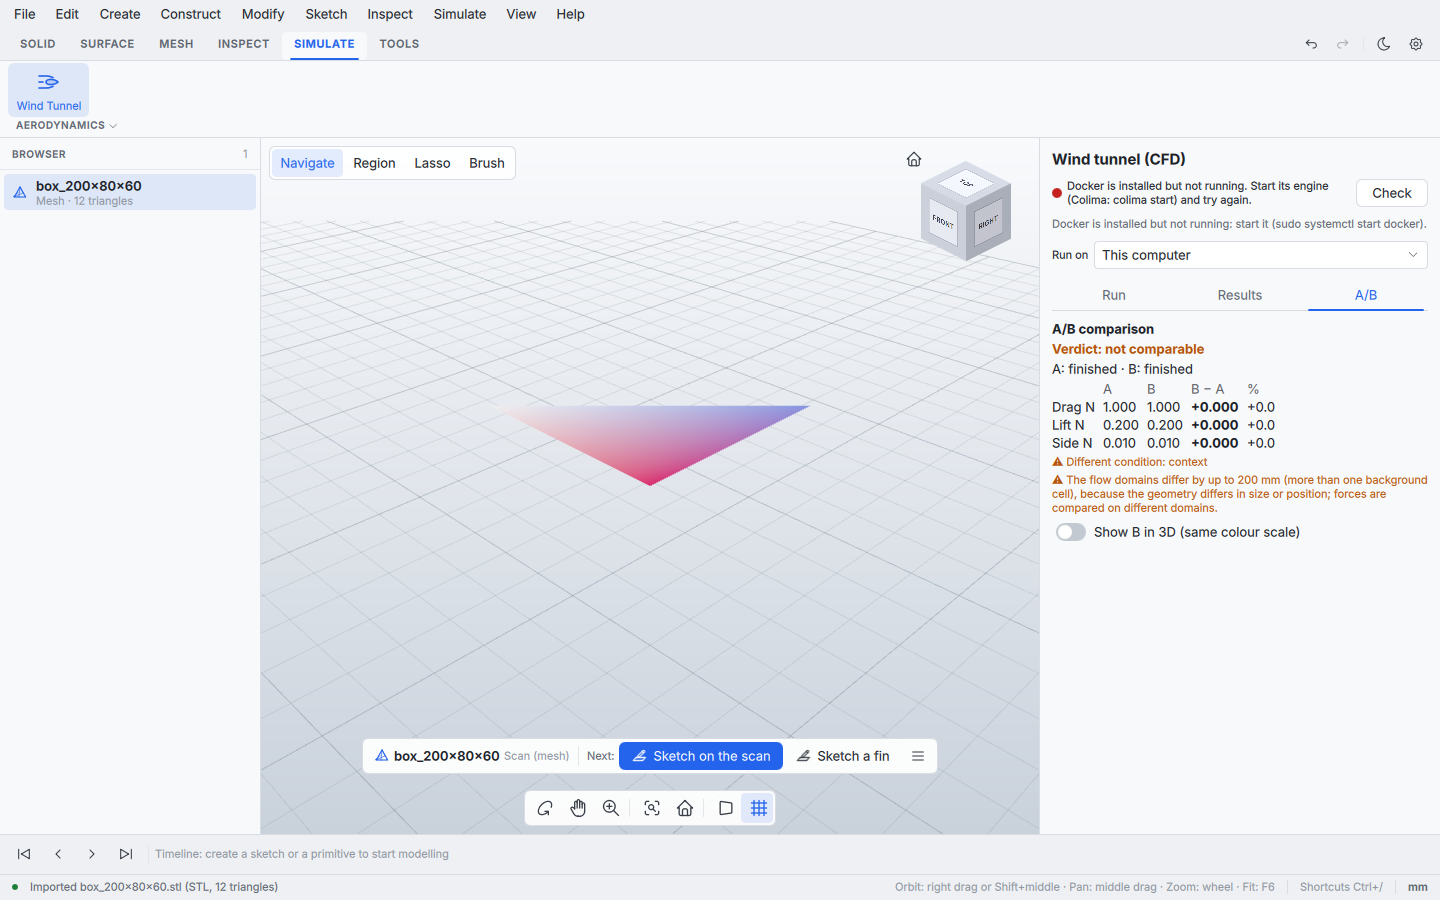
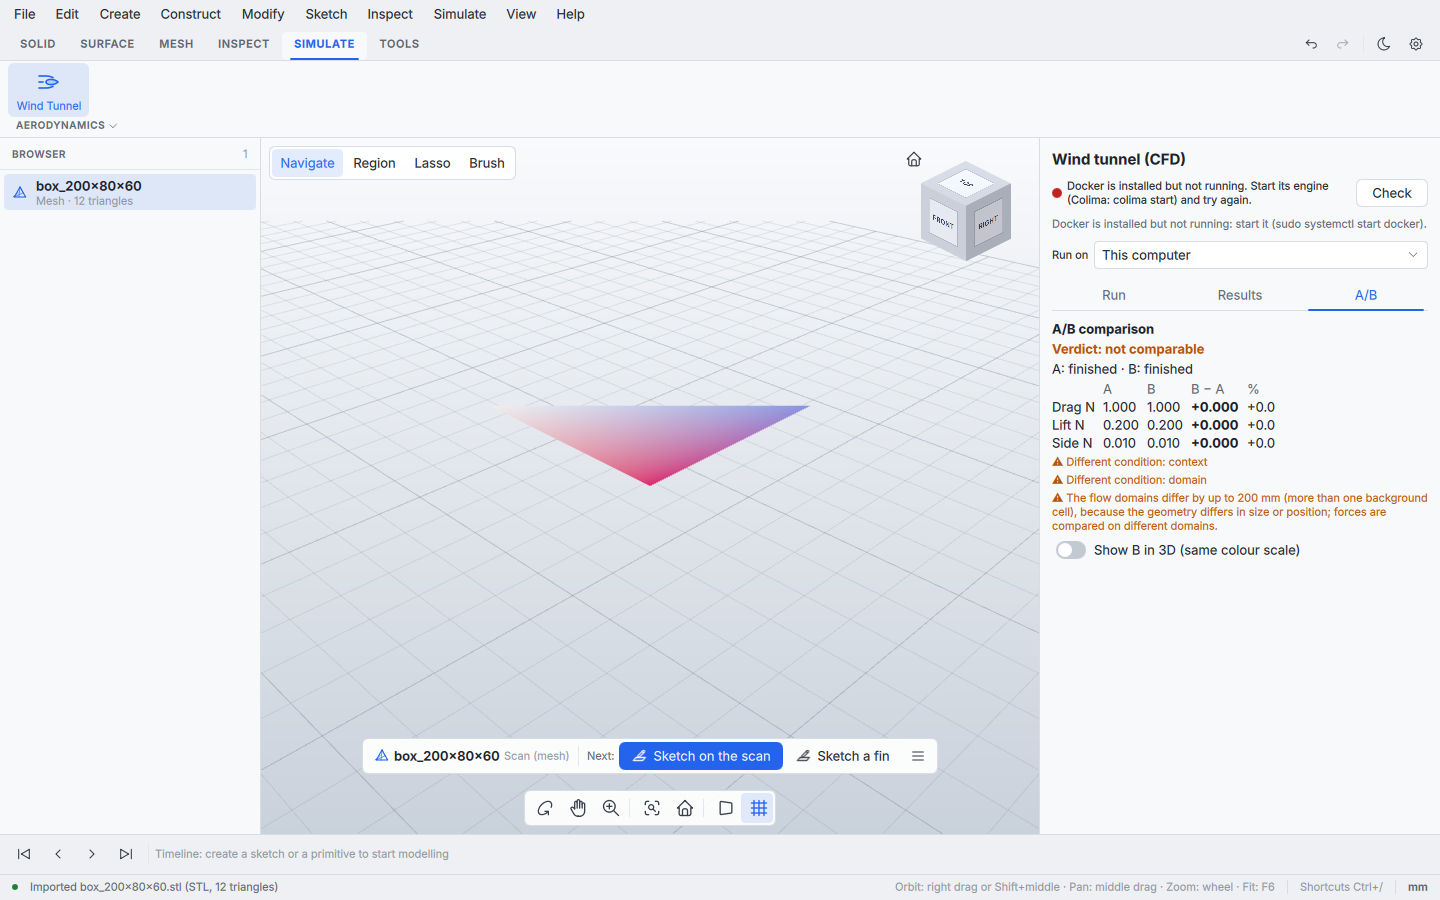
CAD-84: a different domain is a differing condition; unrecorded setup is unknown
A flow domain that differs by more than 1 um adds "domain" to
differingConditions (sameConditions false). When it is the only
difference (a target-part variant), forces and mesh sensitivity are
still computed and the verdict is "different domains" instead of
"comparable". Context, domain or engine an older run did not record
are listed in unknownConditions, with a note, and give "not
comparable". The panel lists unknown conditions and keeps the mesh
check for domain-only differences.

Claude-Session: https://claude.ai/code/session_019XkeKw2QMkPVcyepiCzfmV

Changed region(s): [[0.7188, 0.5289, 1.0, 0.6222]]

diff --git a/src/app/qml/SimulationPanel.qml b/src/app/qml/SimulationPanel.qml
@@ -881,6 +881,7 @@ Pane {
                 }
                 Repeater {
                     model: root.comparison ? root.comparison.differingConditions.map(c => qsTr("Different condition: %1").arg(c))
+                                             .concat((root.comparison.unknownConditions || []).map(c => qsTr("Unknown condition: %1").arg(c)))
                                              .concat(root.comparison.reasons).concat(root.comparison.notes) : []
                     delegate: Label {
                         required property var modelData
@@ -895,7 +896,9 @@ Pane {
                 ColumnLayout {
                     id: meshCheck
                     readonly property var ms: root.comparison ? root.comparison.meshSensitivity : null
-                    visible: !!ms && ms.status !== undefined && root.comparison.sameConditions && !root.comparison.reasons.length
+                    // Also for a target-part variant whose only difference is its own domain.
+                    visible: !!ms && ms.status !== undefined && !root.comparison.reasons.length
+                             && root.comparison.verdict !== "not comparable"
                     Layout.fillWidth: true
                     Layout.topMargin: 6
                     spacing: 2

diff --git a/tests/cfd/test_cfd.cpp b/tests/cfd/test_cfd.cpp
@@ -13,6 +13,7 @@
 #include <cstdlib>
 #include <filesystem>
 #include <fstream>
+#include <functional>
 #include <random>
 #include <sstream>
 #include <thread>
@@ -854,7 +855,8 @@ TEST_CASE("RunManager: mesh sensitivity of an A/B difference", "[cfd]")
     auto cmp = runs.compare(a, b);
     CHECK(cmp.at("meshSensitivity").at("status") == "not assessed");
     CHECK(cmp.at("meshSensitivity").at("suggestedMesh") == "medium");
-    CHECK(cmp.at("verdict") == "comparable");
+    // B is 10 mm taller, so it has its own flow domain (CAD-84): compared, but qualified.
+    CHECK(cmp.at("verdict") == "different domains");
 
     // Same A and B on the medium mesh: difference 0.10 N -> 0.12 N, it holds.
     const std::string am = run(ga, cfd::MeshLevel::Medium, 1.0);
@@ -868,7 +870,7 @@ TEST_CASE("RunManager: mesh sensitivity of an A/B difference", "[cfd]")
     CHECK(ms.at("levels").size() == 2);
     CHECK(ms.at("dragN").at("difference").get<double>() == Approx(0.12).epsilon(0.02));
     CHECK(ms.at("dragN").at("change").get<double>() == Approx(0.02).epsilon(0.1));
-    CHECK(cmp.at("verdict") == "comparable");
+    CHECK(cmp.at("verdict") == "different domains");
     CHECK(runs.compare(am, bm).at("meshSensitivity").at("status") == "holds"); // Same pair, seen from medium.
 
     // On the fine mesh the difference shrinks to 0.03 N: changed by more than half of itself.
@@ -1000,6 +1002,7 @@ TEST_CASE("Different surroundings or domains are not identical conditions (CAD-8
     CHECK(cmp.at("sameConditions") == false);
     const auto diff = cmp.at("differingConditions").get<std::vector<std::string>>();
     CHECK(std::find(diff.begin(), diff.end(), "context") != diff.end());
+    CHECK(std::find(diff.begin(), diff.end(), "domain") != diff.end());
     CHECK(cmp.at("sameDomain") == false);
     CHECK(cmp.at("verdict") == "not comparable");
 
@@ -1021,37 +1024,74 @@ TEST_CASE("Different surroundings or domains are not identical conditions (CAD-8
     CHECK_FALSE(cond.at("contextHash").is_null());
 }
 
-TEST_CASE("Runs written before the surroundings were recorded get a note (CAD-84)", "[cfd]")
+namespace {
+
+void editCaseJson(const fs::path& runDir, const std::function<void(nlohmann::json&)>& edit)
 {
-    TempDir tmp;
-    cfd::RunManager runs(tmp.path());
-    cfd::CaseGeometry g;
-    g.part = box({0, 0, 0}, {200, 80, 60});
-    cfd::Settings s;
-    s.flowDirection = "+X";
-    const std::string a = runs.prepare(g, s, {});
-    const std::string b = runs.prepare(g, s, {});
-    for (const auto& id : {a, b})
-        fakeFinishedRun(tmp.path() / id, 0.8, 1.0);
-    // An older case.json: no contextHash.
-    const fs::path caseJson = tmp.path() / b / "case.json";
+    const fs::path caseJson = runDir / "case.json";
     nlohmann::json j;
     {
         std::ifstream in(caseJson);
         in >> j;
     }
-    j.erase("contextHash");
+    edit(j);
     std::ofstream(caseJson) << j.dump(2);
-    const auto cmp = runs.compare(a, b);
+}
+
+bool contains(const nlohmann::json& list, const std::string& value)
+{
+    return std::find(list.begin(), list.end(), value) != list.end();
+}
+
+} // namespace
+
+TEST_CASE("Setup evidence an older run did not record is unknown, not equal (CAD-84)", "[cfd]")
+{
+    TempDir tmp;
+    cfd::RunManager runs(tmp.path());
+    cfd::Settings s;
+    s.flowDirection = "+X";
+    cfd::CaseGeometry alone, withContext;
+    alone.part = box({0, 0, 0}, {200, 80, 60});
+    withContext.part = alone.part;
+    withContext.context = box({-120, 20, 0}, {240, 240, 45});
+    const std::string a = runs.prepare(alone, s, {});
+    const std::string b = runs.prepare(withContext, s, {});
+    const std::string c = runs.prepare(alone, s, {});
+    for (const auto& id : {a, b, c})
+        fakeFinishedRun(tmp.path() / id, 0.8, 1.0);
+
+    // Matched records: identical conditions.
+    auto cmp = runs.compare(a, c);
     INFO(cmp.dump());
     CHECK(cmp.at("sameConditions") == true);
+    CHECK(cmp.at("unknownConditions").empty());
+    CHECK(cmp.at("verdict") == "comparable");
+
+    // The audit's pair with the surroundings of the context run not recorded.
+    editCaseJson(tmp.path() / b, [](nlohmann::json& j) { j.erase("contextHash"); });
+    cmp = runs.compare(a, b);
+    INFO(cmp.dump());
+    CHECK(cmp.at("sameConditions") == false);
+    CHECK(contains(cmp.at("unknownConditions"), "context"));
+    CHECK(contains(cmp.at("differingConditions"), "domain"));
+    CHECK(cmp.at("verdict") == "not comparable");
+
+    // Otherwise matched runs without a recorded engine: unknown, with a note.
+    for (const auto& id : {a, c})
+        editCaseJson(tmp.path() / id, [](nlohmann::json& j) { j.erase("openfoam"); });
+    cmp = runs.compare(a, c);
+    INFO(cmp.dump());
+    CHECK(cmp.at("sameConditions") == false);
+    CHECK(contains(cmp.at("unknownConditions"), "engine"));
+    CHECK(cmp.at("verdict") == "not comparable");
     bool noted = false;
     for (const auto& n : cmp.at("notes"))
-        noted = noted || n.get<std::string>().find("surroundings") != std::string::npos;
+        noted = noted || n.get<std::string>().find("engine of both runs was not recorded") != std::string::npos;
     CHECK(noted);
 }
 
-TEST_CASE("A target-part variant of another size stays comparable; its domain is reported (CAD-84)", "[cfd]")
+TEST_CASE("A target-part variant of another size is compared on a different domain (CAD-84)", "[cfd]")
 {
     TempDir tmp;
     cfd::RunManager runs(tmp.path());
@@ -1068,9 +1108,11 @@ TEST_CASE("A target-part variant of another size stays comparable; its domain is
         fakeFinishedRun(tmp.path() / id, 0.8, 1.0);
     const auto cmp = runs.compare(a, b);
     INFO(cmp.dump());
-    CHECK(cmp.at("sameConditions") == true);
+    CHECK(cmp.at("sameConditions") == false);
     CHECK(cmp.at("sameDomain") == false);
-    CHECK(cmp.at("verdict") == "comparable");
+    CHECK(cmp.at("differingConditions") == nlohmann::json::array({"domain"}));
+    CHECK(cmp.at("verdict") == "different domains");
+    CHECK_FALSE(cmp.at("forces").empty()); // the variant is still compared
     bool noted = false;
     for (const auto& n : cmp.at("notes"))
         noted = noted || n.get<std::string>().find("flow domains differ") != std::string::npos;

diff --git a/src/cfd/src/RunManager.cpp b/src/cfd/src/RunManager.cpp
@@ -1399,35 +1399,55 @@ Json RunManager::compare(const std::string& a, const std::string& b)
     auto diff = differingConditions(ca.value("settings", Json::object()), cb.value("settings", Json::object()));
     std::vector<std::string> notes;
     // The resolved setup, not only the requested settings (CAD-84): surroundings, domain
-    // (with the ground) and engine. The target part itself may differ: that is the A/B.
+    // (with the ground) and engine. Missing evidence is unknown, never equal.
+    std::vector<std::string> unknown;
     const Json ctxA = ca.value("contextHash", Json()), ctxB = cb.value("contextHash", Json());
     if (ctxA.is_null() || ctxB.is_null())
-        notes.emplace_back("The surroundings (context geometry) of an older run were not recorded, so they could "
-                           "not be compared.");
+        unknown.emplace_back("context");
     else if (ctxA != ctxB)
         diff.emplace_back("context");
-    // The domain is sized from the target part and the surroundings. Different surroundings
-    // are a different case ("context" above); a target-part variant of another size gets its
-    // own domain, which is the A/B being made, so it is reported but does not block the verdict.
-    bool sameDomain = true;
-    if (ca.contains("domain") && cb.contains("domain")) {
-        // Domains within a background cell of each other mesh the same way.
-        const double cell = std::max(ca.value("baseCellSize", 0.0), cb.value("baseCellSize", 0.0));
+    // The domain is sized from the target part and the surroundings, so a target-part variant
+    // of another size gets its own domain. That is reported as a differing condition; when it
+    // is the only one, the forces are still compared and the verdict says so.
+    bool sameDomain = false;
+    if (!ca.contains("domain") || !cb.contains("domain")) {
+        unknown.emplace_back("domain");
+    } else {
         double worst = 0.0;
         for (const char* side : {"min", "max"})
             for (std::size_t k = 0; k < 3; ++k)
                 worst = std::max(worst, std::abs(ca["domain"][side][k].get<double>() - cb["domain"][side][k].get<double>()));
-        sameDomain = worst <= std::max(cell, 1e-9);
-        if (!sameDomain)
+        sameDomain = worst <= 1e-6; // 1 µm: the same domain up to rounding
+        if (!sameDomain) {
+            diff.emplace_back("domain");
+            const double cell = std::max(ca.value("baseCellSize", 0.0), cb.value("baseCellSize", 0.0));
             notes.emplace_back("The flow domains differ by up to " + std::to_string(std::lround(worst * 1000.0)) +
-                               " mm (more than one background cell), because the geometry differs in size or position; "
-                               "forces are compared on different domains.");
+                               " mm (" + (worst <= cell ? "within" : "more than") +
+                               " one background cell), because the geometry differs in size or position; forces "
+                               "are compared on different domains.");
+        }
     }
     j["sameDomain"] = sameDomain;
-    if (ca.value("engine", Json()) != cb.value("engine", Json()))
+    const Json engineA = ca.value("engine", Json()), engineB = cb.value("engine", Json());
+    if (engineA.is_null() || engineB.is_null())
+        unknown.emplace_back("engine");
+    else if (engineA != engineB)
         diff.emplace_back("engine");
-    j["sameConditions"] = diff.empty();
+    for (const auto& u : unknown)
+        notes.emplace_back("The " + std::string(u == "context" ? "surroundings (context geometry)" : u) + " of " +
+                           ((u == "context" ? ctxA.is_null() && ctxB.is_null()
+                             : u == "engine" ? engineA.is_null() && engineB.is_null()
+                                             : !ca.contains("domain") && !cb.contains("domain"))
+                                ? std::string("both runs")
+                                : std::string("one run")) +
+                           " was not recorded (older case), so it could not be compared.");
+    j["sameConditions"] = diff.empty() && unknown.empty();
     j["differingConditions"] = diff;
+    j["unknownConditions"] = unknown;
+    // Only a domain difference still allows comparing the forces (a target-part variant).
+    const bool blocking = !unknown.empty() || std::any_of(diff.begin(), diff.end(), [](const std::string& c) {
+                              return c != "domain";
+                          });
     const double areaA = ca.value("referenceArea", 0.0), areaB = cb.value("referenceArea", 0.0);
     const double lenA = ca.value("characteristicLength", 0.0), lenB = cb.value("characteristicLength", 0.0);
     if (lenA > 0 && lenB > 0 && std::abs(lenA - lenB) > 0.1 * std::max(lenA, lenB))
@@ -1458,15 +1478,16 @@ Json RunManager::compare(const std::string& a, const std::string& b)
         notes.emplace_back("Reference areas differ (" + std::to_string(areaA) + " vs " + std::to_string(areaB) +
                            " m^2); coefficients of B are rescaled to the area of A.");
     j["quality"] = {{"a", ra.at("quality")}, {"b", rb.at("quality")}};
-    const Json sensitivity = finalAvailable && diff.empty()
+    const Json sensitivity = finalAvailable && !blocking
                                  ? meshSensitivity(a, b)
                                  : Json{{"status", "not assessed"}, {"levels", Json::array()}};
     j["meshSensitivity"] = sensitivity;
-    j["verdict"] = !finalAvailable || !diff.empty() ? "not comparable"
+    j["verdict"] = !finalAvailable || blocking ? "not comparable"
                    : !(ra.at("quality").at("status") == "ok" && rb.at("quality").at("status") == "ok")
                        ? "check quality"
                    : sensitivity.at("status") == "check quality" ? "check quality"
                    : sensitivity.at("status") == "inconclusive" ? "difference inconclusive"
+                   : !sameDomain                                ? "different domains"
                                                                  : "comparable";
 
     // Shared colour scales for the field views.

diff --git a/src/commands/src/SimulationCommands.cpp b/src/commands/src/SimulationCommands.cpp
@@ -423,10 +423,11 @@ void registerSimulationCommands(CommandRegistry& r)
     r.add({"simulation.compare", "Compare simulations",
            "A/B comparison of two runs: drag/lift/side force differences in N and %, coefficients on a shared "
            "reference area, whether the conditions match (settings such as speed, direction, mesh and preset, and "
-           "the resolved setup: surroundings/context geometry and engine; sameDomain and a note tell when the flow "
-           "domains differ), quality of both, "
+           "the resolved setup: surroundings/context geometry, flow domain and engine; unknownConditions lists what an "
+           "older run did not record), quality of both, "
            "and shared colour scale ranges. Both runs need successful completion and complete finite force/coefficient "
            "outputs; otherwise verdict is not comparable, deltas/scales are empty, and states/reasons explain why. "
+           "Verdict \"different domains\" when the only difference is the flow domain of a target-part variant. "
            "meshSensitivity tells whether the difference holds on another mesh level (A and B run there too, see "
            "simulation.refine); verdict \"difference inconclusive\" when refinement changes it about as much as its "
            "size.",

diff --git a/docs/cfd.md b/docs/cfd.md
@@ -241,14 +241,16 @@ colour scale ranges (Cp on the surface, speed in the sections). Verdict:
 different domain and mesh sizes, which is reported as a note.
 
 The resolved setup is compared too, not only the requested settings. Each case records a
-fingerprint of its surroundings (context parts, in model coordinates) and the engine version;
-`results.conditions` carries `domain`, `contextHash` and `engine`. Different surroundings
-(for example the part alone against the same part next to the car body) add `context` to
-the differing conditions, and a different engine adds `engine`; either makes the verdict
-`not comparable`. The target part itself may differ, since that is the A/B. A variant of
-another size gets its own flow domain: `sameDomain` is false and a note gives the largest
-difference, but the verdict is not blocked. Runs written before the surroundings were
-recorded get a note that they could not be compared.
+fingerprint of its surroundings (context parts in model coordinates, independent of their
+order) and the engine version; `results.conditions` carries `domain`, `contextHash` and
+`engine`. Different surroundings (for example the part alone against the same part next to
+the car body) add `context` to `differingConditions`, a different engine adds `engine`;
+either makes the verdict `not comparable`. A flow domain that differs by more than 1 µm adds
+`domain` and sets `sameDomain` to false. The target part itself may differ, since that is the
+A/B: when the domain is the only difference, the forces are still compared, a note gives the
+difference in mm and the verdict is `different domains` instead of `comparable`. What an
+older run did not record (surroundings, domain or engine) is listed in `unknownConditions`
+and makes the verdict `not comparable`.
 
 Both runs must have final results. Otherwise the verdict is `not comparable`, force
 and coefficient differences and shared colour scales are empty, and `states` / `reasons`
